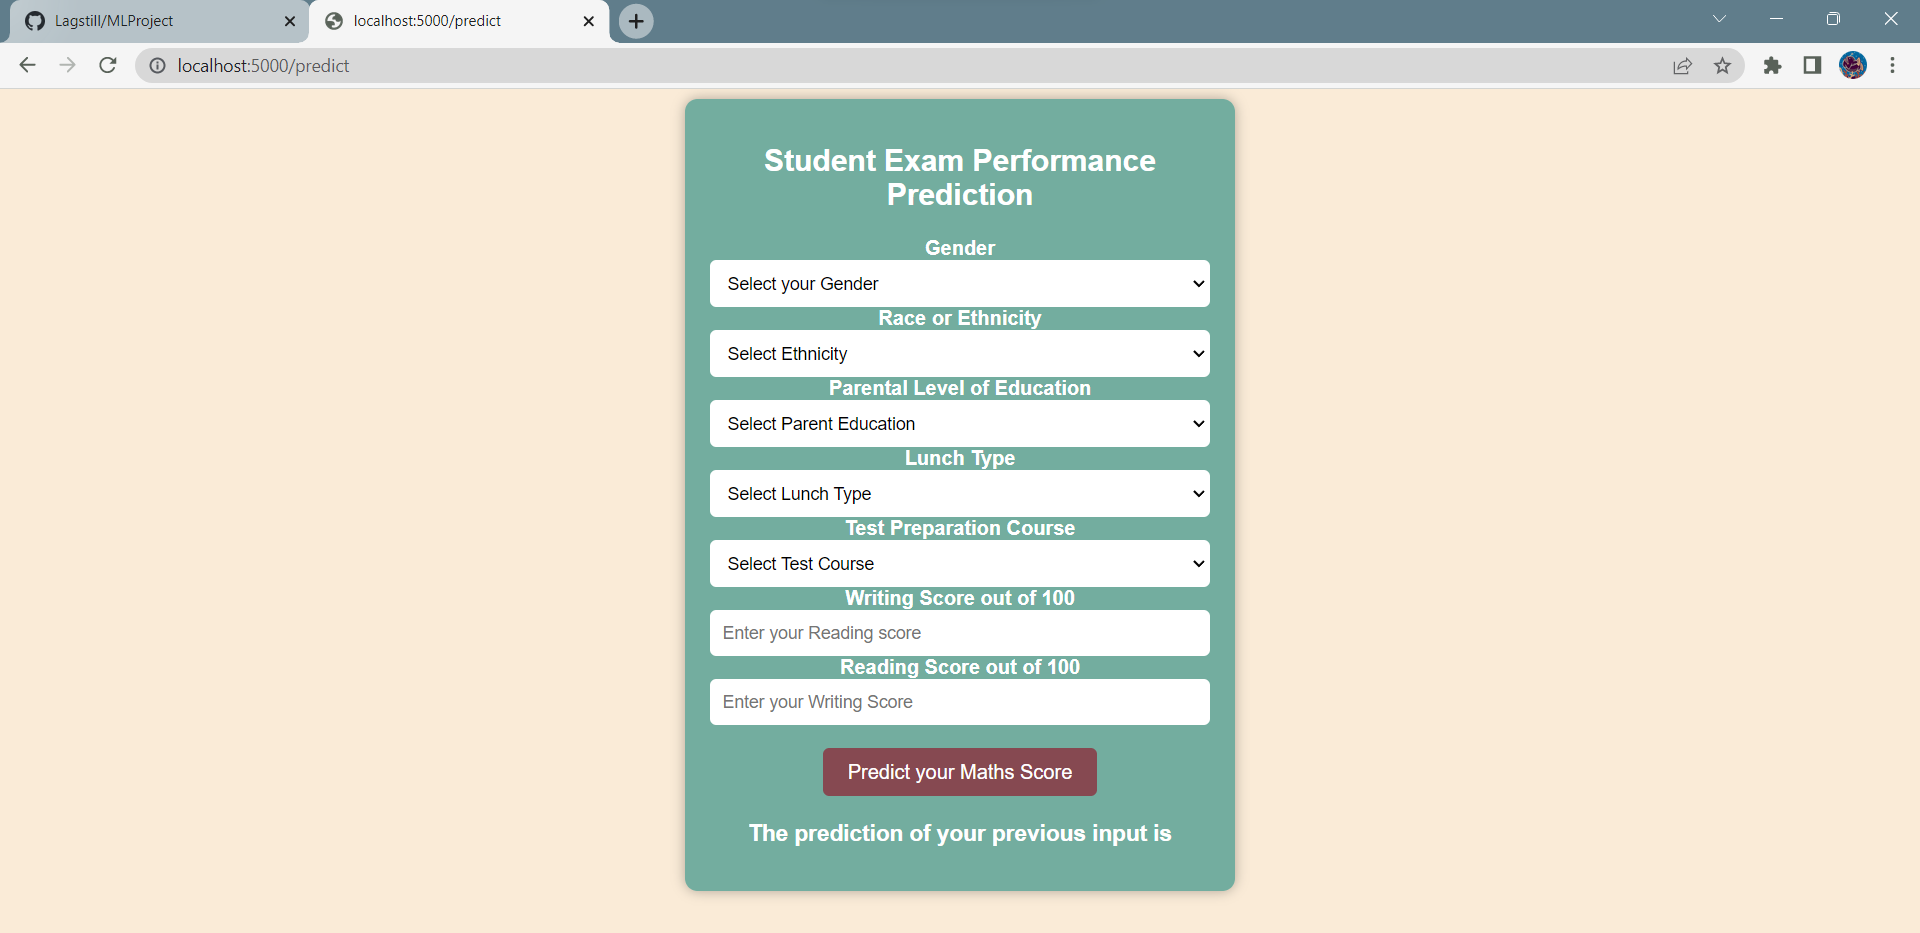
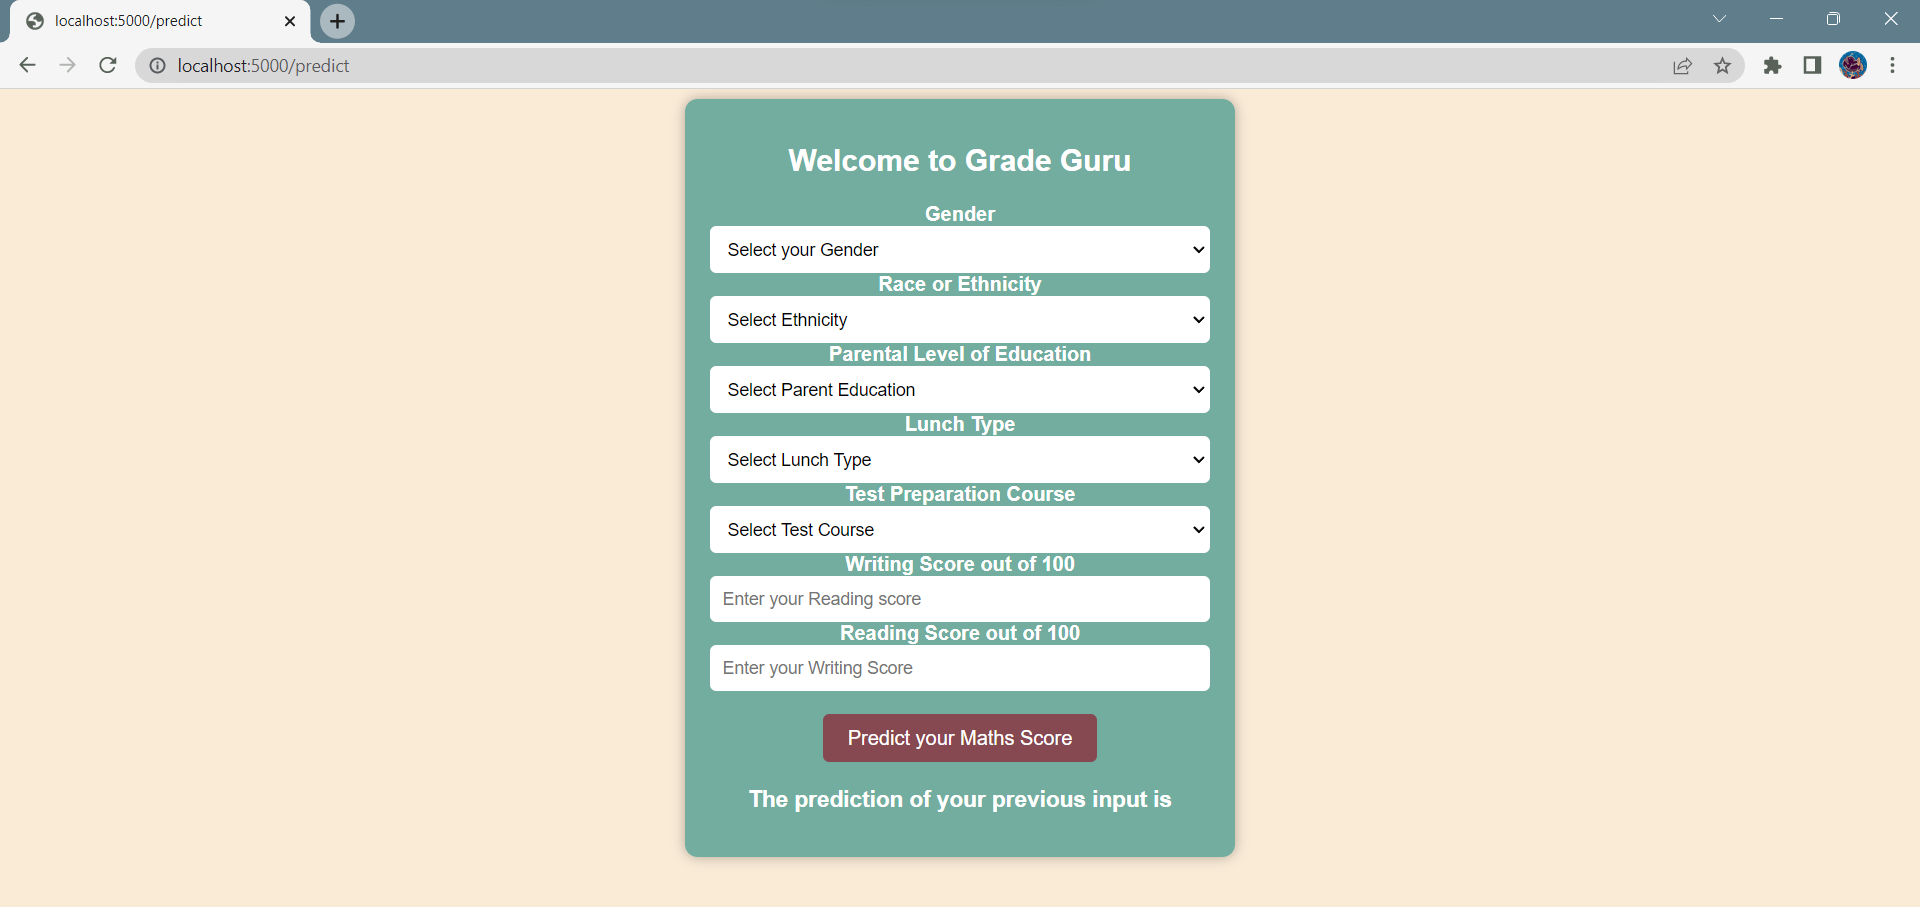
Renamed

Changed region(s): [[0.3438, 0.1544, 0.6562, 0.957], [0.0, 0.0, 1.0, 0.1235]]

diff --git a/templates/home.html b/templates/home.html
@@ -56,7 +56,7 @@
     <div class="login">
         <form action="{{ url_for('predict')}}" method="post">
             <h1>
-                <legend>Student Exam Performance Prediction</legend>
+                <legend>Welcome to Grade Guru</legend>
             </h1>
             <div class="mb-3">
                 <label class="form-label">Gender</label>

diff --git a/templates/index.html b/templates/index.html
@@ -1,1 +1,1 @@
-<h1>Welcome to home page</h1>
+<h1>Welcome to Grade Guru</h1>

diff --git a/test_app.py b/test_app.py
@@ -12,4 +12,4 @@ def client():
 def test_index(client):
     response = client.get('/')
     assert response.status_code == 200
-    assert b'<h1>Welcome to home page</h1>' in response.data
+    assert b'<h1>Welcome to Grade Guru</h1>' in response.data

diff --git a/README.md b/README.md
@@ -1,4 +1,4 @@
-### Student Performance Predictor
+### Grade Guru
 
 ### Introduction
 * This is a modular Flask web application that provides a prediction endpoint for an ensemble of machine learning models. It takes input data from a web form and returns the predicted result.
